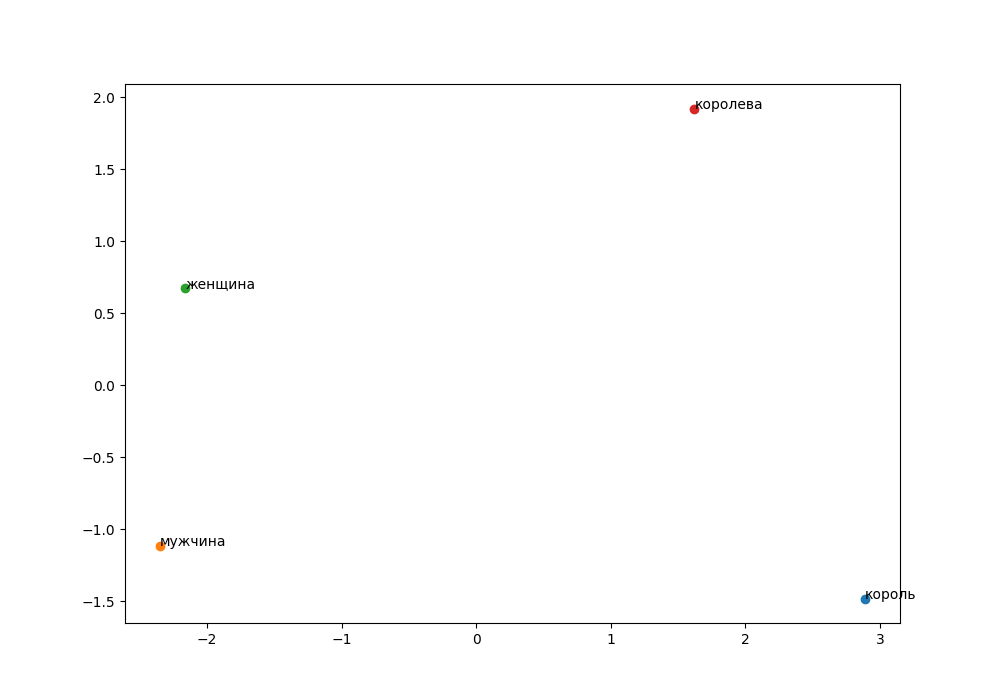
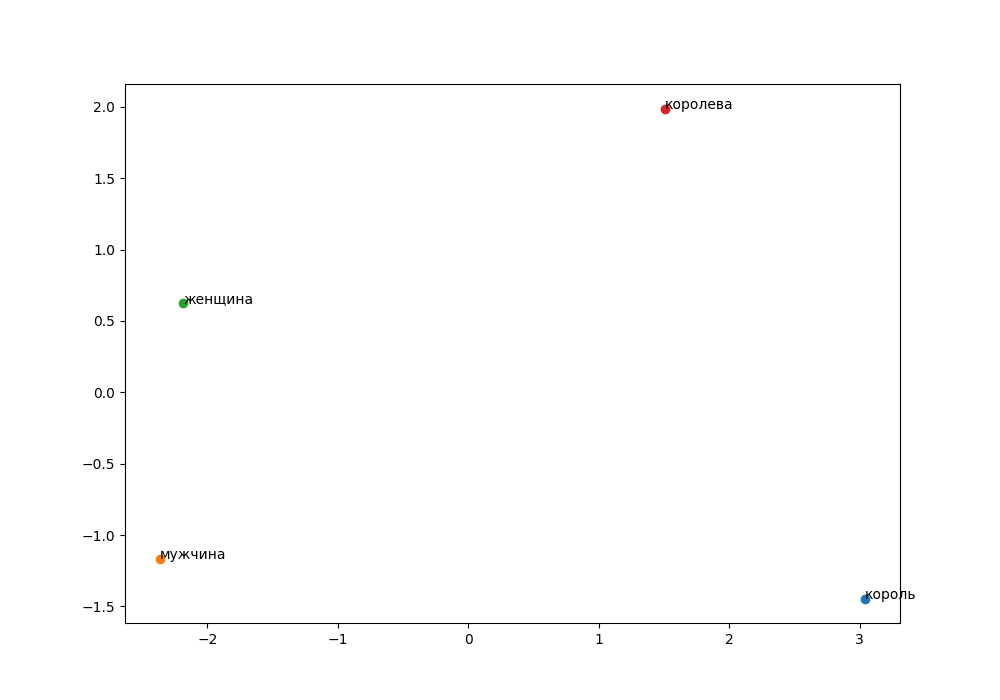
Try

diff --git a/showResult/show.py b/showResult/show.py
@@ -1,9 +1,11 @@
+import sys
+
 import gensim
 from sklearn.decomposition import PCA
 from sklearn.manifold import TSNE
 import matplotlib.pyplot as plt
 
-model = gensim.models.Word2Vec.load("C:/Users/Honta/PycharmProjects/word2vec/fitModel/model_sg_1_window_5_vect_size_100.model")
+model = gensim.models.Word2Vec.load("C:/Users/Honta/PycharmProjects/word2vec/fitModel/AAAmodel_sg_1_window_5_vect_size_100.model")
 
 # Функция для визуализации эмбеддингов и сохранения в файл
 def visualize_embeddings(model, words, method='pca', filename='embedding_plot.png'):
@@ -26,6 +28,57 @@ def visualize_embeddings(model, words, method='pca', filename='embedding_plot.pn
 # Пример визуализации эмбеддингов слов для CBOW модели
 words_to_visualize = ['король', 'мужчина', 'женщина', 'королева']
 visualize_embeddings(model, words_to_visualize, method='pca', filename='SkipGram.png')
+
+def find_similar_words(model, words):
+    for word in words:
+        if word in model.wv:
+            similar_words = model.wv.most_similar(word, topn=5)
+            print(f"Наиболее похожие слова для '{word}':")
+            for similar_word, similarity in similar_words:
+                print(f"  {similar_word}: {similarity:.4f}")
+        else:
+            print(f"Слово '{word}' не найдено в модели.")
+        print()
+
+# Функция для выполнения задачи на аналогии слов
+# positive +, negative -
+def word_analogy(model, word1, word2, word3):
+    try:
+        result = model.wv.most_similar(positive=[word1, word3], negative=[word2])
+        return result
+    except KeyError as e:
+        return str(e)
+
+# Примеры задач на аналогии слов
+analogies = [
+    ("король", "мужчина", "женщина"),
+    ("Лондон", "Англия", "Франция"),
+    ("утро", "день", "ночь"),
+    ("книга", "читать", "писать")
+]
+
+words_to_analyze = ['король', 'мужчина', 'женщина', 'королева']
+
+
+
+
+# Открытие файла для записи вывода
+with open('SkipGram.txt', 'w', encoding='utf-8') as f:
+        # Перенаправление стандартного вывода в файл
+    sys.stdout = f
+    print("----------------------------------------------------")
+    print("Модель model_sg_1_window_5_vect_size_100.model\n")
+
+
+    # Поиск аналогий по словам
+    for word1, word2, word3 in analogies:
+        result = word_analogy(model, word1, word2, word3)
+        print(f"'{word1}' - '{word2}' + '{word3}' ≈ {result}")
+
+    find_similar_words(model, words_to_analyze)
+
+        # Возвращение стандартного вывода в консоль
+sys.stdout = sys.__stdout__
 
 
 print("Графики сохранены в файлы SkipGram.png и skipgram_tsne.png.")

diff --git a/textEdit/textEdit.py b/textEdit/textEdit.py
@@ -2,29 +2,32 @@ import json
 import csv
 import re
 import nltk
-from nltk.corpus import stopwords
-from nltk.tokenize import word_tokenize
-
-# Загрузка необходимых ресурсов NLTK
+nltk.download("omw-1.4")
 nltk.download('punkt_tab')
 nltk.download('stopwords')
+nltk.download('wordnet')
+
+from nltk import word_tokenize
+from nltk.corpus import stopwords
+from nltk.stem import WordNetLemmatizer
+
+# Загрузка необходимых ресурсов NLTK
+
+stop_words = set(stopwords.words("russian"))
+lemmatizer = WordNetLemmatizer()
+
 
 # Функция для предобработки текста
 def preprocess_text(text):
-    # Приведение к нижнему регистру
     text = text.lower()
-    # Удаление пунктуации
-    text = re.sub(r'[^\w\s]', '', text)
-    # Токенизация
-    tokens = word_tokenize(text)
-    # Удаление стоп-слов
-    stop_words = set(stopwords.words('russian'))
-    tokens = [word for word in tokens if word not in stop_words]
-    return ' '.join(tokens)  # Объединяем токены обратно в строку
+    text = re.sub(r"[^а-яё\s]", "", text)
+    words = text.split()
+    words = [lemmatizer.lemmatize(word) for word in words if word not in stop_words]
+    return " ".join(words)
 
 # Чтение и предобработка данных из JSONL файла
 preprocessed_data = []
-with open('/corpus.jsonl', 'r', encoding='utf-8') as file:
+with open('C:\\Users\\Honta\\PycharmProjects\\word2vec\\corpus.jsonl', 'r', encoding='utf-8') as file:
     for line in file:
         item = json.loads(line.strip())
         processed_text = preprocess_text(item['text'])
@@ -32,6 +35,9 @@ with open('/corpus.jsonl', 'r', encoding='utf-8') as file:
             'id': item['id'],
             'ProcessedText': processed_text
         })
+    print("Файл открыт")
+
+
 
 # Сохранение предобработанного текста в CSV
 with open('preprocessed_large_file.csv', 'w', encoding='utf-8', newline='') as csv_file:

diff --git a/fitModel/fit.py b/fitModel/fit.py
@@ -4,8 +4,8 @@ import textEdit
 
 def main():
     sg = [0, 1]
-    window = [2, 5, 10]
-    vector_size = [50, 100]
+    window = [5]
+    vector_size = [100]
 
     # Определите размер чанка
     chunk_size = 10000  # Попробуйте различные значения для оптимизации
@@ -28,7 +28,7 @@ def main():
                 # Обучение модели CBOW или Skip-gram
                 model = Word2Vec(sentences=corpus, vector_size=vs, window=w, min_count=1, sg=s, workers=12)
                 # Сохранение модели
-                model_name = f"model_sg_{s}_window_{w}_vect_size_{vs}.model"
+                model_name = f"AAAmodel_sg_{s}_window_{w}_vect_size_{vs}.model"
                 model.save(model_name)
                 print(f"Модель {model_name} обучена и сохранена.")
 

diff --git a/readme.md b/readme.md
@@ -30,7 +30,9 @@ CBOW SkipGram, window - размер окна, vector_size - размер эмб
 интерпретируйте результаты.
 • Выполните задачи на аналогии слов (например, "король" - "мужчина" +
 "женщина" ≈ ?).  
-  [Лог](mostSimilar/output.txt)  
+  [Лог](mostSimilar/output.txt) Все   
+  [CBOW](showResult/SBOW.txt)   
+  [SkipGram.txt](showResult/SkipGram.txt)  
   
 Визуализация эмбедингов(На лучшем наборе гиперпараметров)
 ### CBOW  
